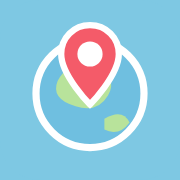
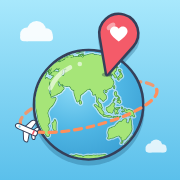
网站图标：卡通地球 + 家的定位针 + 环球航线
- 全新 App 图标：用真实大陆轮廓正射投影出的卡通地球（亚洲/非洲/澳洲），
  定位针扎在"家"的位置、针头里一颗白色爱心代表一家人，橙色虚线航线和小飞机绕地球飞，
  沿用网站的贴纸风（墨色描边、硬阴影、天蓝海洋、草绿陆地）
- 浏览器标签小图标单独精简：只留地球 + 定位针，16px 下描边正好 1 像素，
  白色贴纸外边让它在深色标签栏上也清楚
- favicon.ico（16/32/48）兼容 Safari 和旧浏览器；SVG 版给 Chrome/Edge/Firefox
- iPhone/iPad 主屏 180、安卓/Windows 安装 192/512、安卓自适应 maskable 512（内容在安全区内）
- 主屏图标下方显示「旅行足迹」（原标题过长会被截断）
- 图标链接带 ?v=2，部署后浏览器会丢掉缓存的旧图标
- 附 App 图标矢量原稿 assets/icon-app.svg，方便以后修改

Claude-Session: https://claude.ai/code/session_014XDdMM6UpyyX5VWoyW8z1e

diff --git a/index.html b/index.html
@@ -5,12 +5,17 @@
   <meta name="viewport" content="width=device-width, initial-scale=1.0, maximum-scale=1.0, user-scalable=no, viewport-fit=cover">
   <meta name="apple-mobile-web-app-capable" content="yes">
   <meta name="apple-mobile-web-app-status-bar-style" content="black-translucent">
+  <!-- 添加到主屏幕后图标下方显示的名字（原标题太长会被截断） -->
+  <meta name="apple-mobile-web-app-title" content="旅行足迹">
+  <meta name="application-name" content="旅行足迹">
   <meta name="theme-color" content="#7ec8e3">
   <meta name="description" content="一家四口的卡通旅行足迹地图：在真实世界地图上走一走，记录我们去过的每个地方">
   <title>我的旅行足迹地图</title>
-  <link rel="icon" href="assets/icon.svg" type="image/svg+xml">
-  <link rel="apple-touch-icon" href="assets/apple-touch-icon.png">
-  <link rel="manifest" href="manifest.webmanifest">
+  <!-- 图标：?v= 用来让浏览器丢掉缓存的旧图标，换图标时把数字加一 -->
+  <link rel="icon" href="favicon.ico?v=2" sizes="32x32">
+  <link rel="icon" href="assets/icon.svg?v=2" type="image/svg+xml">
+  <link rel="apple-touch-icon" href="assets/apple-touch-icon.png?v=2">
+  <link rel="manifest" href="manifest.webmanifest?v=2">
   <!-- 卡通字体（站酷快乐体，自托管，国内外都能加载） -->
   <link rel="stylesheet" href="css/fonts.css">
   <link rel="stylesheet" href="css/style.css">
